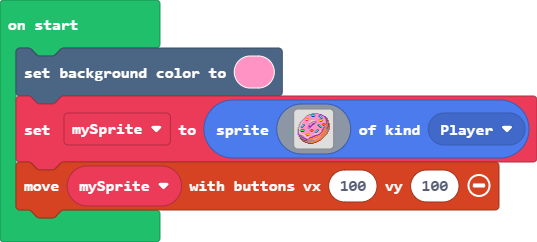
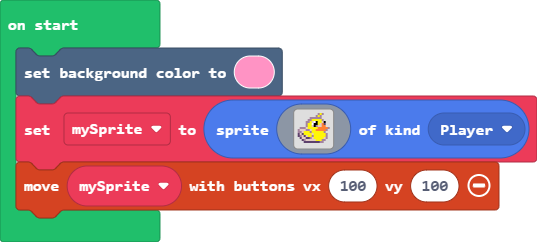
Update main.blocks, main.ts

Changed region(s): [[0.5363, 0.4628, 0.6257, 0.6074]]

diff --git a/main.ts b/main.ts
@@ -1,36 +1,20 @@
 scene.setBackgroundColor(3)
 let mySprite = sprites.create(img`
-    ..............bbbbbbb...........
-    ...........bb66663333baa........
-    .........bb3367776333663aa......
-    ........b33333888333389633aa....
-    .......b3333333333333389633aa...
-    ......b34443333333333338633bae..
-    .....b3455433333333334443333ae..
-    ....b33322333dddd3333455233daee.
-    ...b3d333333dd3bbbb33322333dabe.
-    ..b3d333333d3bb33bb33333333da4e.
-    ..bd33333333b33aab3333333223a4ee
-    .b3d3663333b33aab33366332442b4ee
-    .bd3b983333a3aa3333387633ee3b4ee
-    .bd6983333baaa333333387633bb4bee
-    b3d6833333bba333333333863ba44ebe
-    bdd3333333bb3333333333333a44bebe
-    add666633333322333366333ba44bbbe
-    ad67776333332442336983d3a444b4e.
-    add888b333333ee3369833d3a44b44e.
-    add333333333333336833d3a444b4e..
-    a3dd3333344433333dddd3a444b44e..
-    ab33ddd325543333dd33aa444b44e...
-    .eabb3dd32233333baaa4444b44e....
-    .ebabb3d333d33baa444443b44e.....
-    ..ebaab3ddd3aaa4444433b44e......
-    ..eebbaab33a44444333b444e.......
-    ...eeebbaab444b333b4444e........
-    ....ebeeebbbbbbbb4444ee.........
-    .....eebbbb44444444ee...........
-    .......eeebbb444eee.............
-    ..........eeeeee................
-    ................................
+    . . . . . . . . . . b 5 b . . . 
+    . . . . . . . . . b 5 b . . . . 
+    . . . . . . b b b b b b . . . . 
+    . . . . . b b 5 5 5 5 5 b . . . 
+    . . . . b b 5 d 1 f 5 5 d f . . 
+    . . . . b 5 5 1 f f 5 d 4 c . . 
+    . . . . b 5 5 d f b d d 4 4 . . 
+    . b b b d 5 5 5 5 5 4 4 4 4 4 b 
+    b d d d b b d 5 5 4 4 4 4 4 b . 
+    b b d 5 5 5 b 5 5 5 5 5 5 b . . 
+    c d c 5 5 5 5 d 5 5 5 5 5 5 b . 
+    c b d c d 5 5 b 5 5 5 5 5 5 b . 
+    . c d d c c b d 5 5 5 5 5 d b . 
+    . . c b d d d d d 5 5 5 b b . . 
+    . . . c c c c c c c c b b . . . 
+    . . . . . . . . . . . . . . . . 
     `, SpriteKind.Player)
 controller.moveSprite(mySprite, 100, 100)
